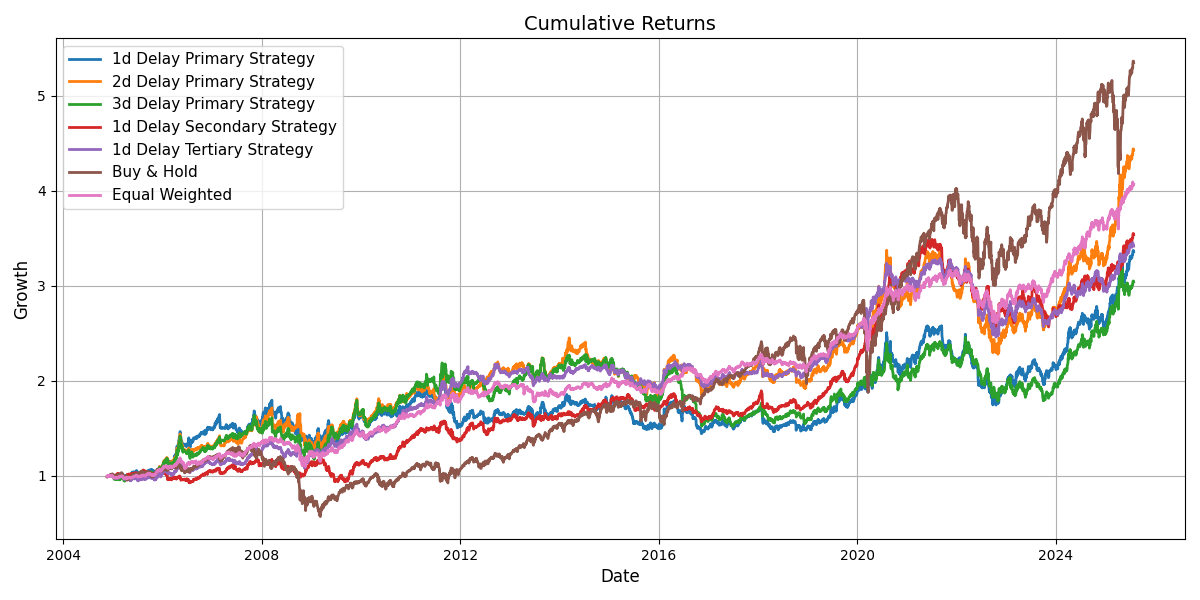
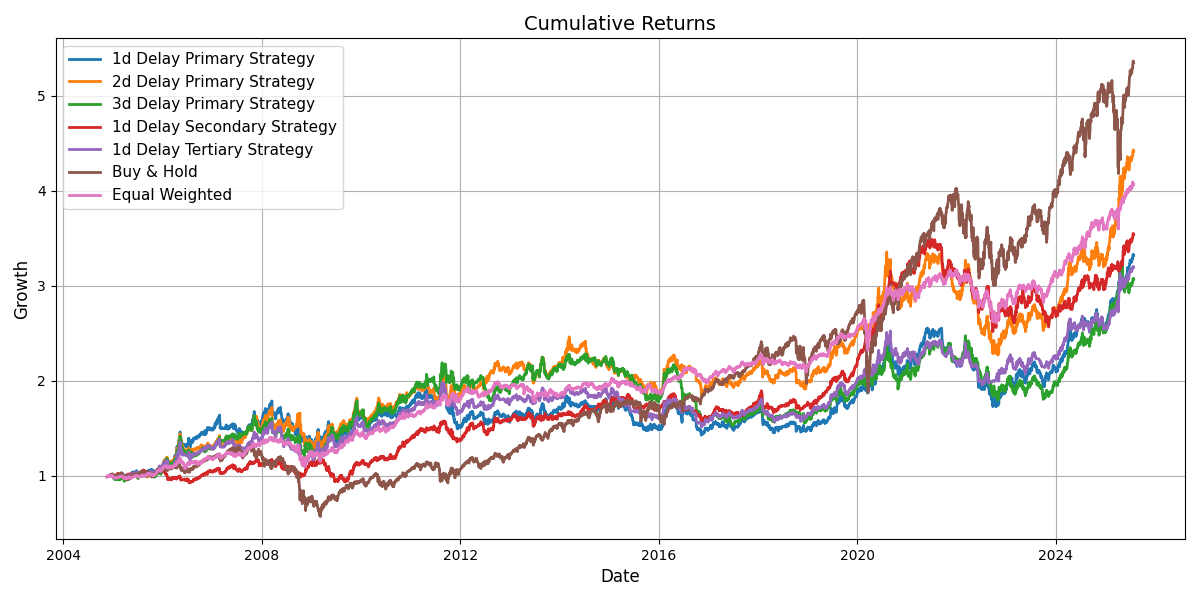
fix(top_perf.py): added print functions to help debugging and corrected momentum based weighting function

Changed region(s): [[0.0925, 0.39, 0.9558, 0.81]]

diff --git a/strategies/top_performers.py b/strategies/top_performers.py
@@ -2,7 +2,7 @@ import pandas as pd
 import numpy as np
 
 
-def genereate_top_performers_strategy(assets, window = 21, top_n = 2, max_delay = 1, weighting = "equal"):
+def genereate_top_performers_strategy(assets, window = 21, top_n = 2, max_delay = 1, weighting = "momentum"):
     
     # Calculates percentage change during window
     momentum = assets.pct_change(periods = window)
@@ -20,25 +20,42 @@ def genereate_top_performers_strategy(assets, window = 21, top_n = 2, max_delay 
     # Provides an optional momentum weighted portfolio
     elif weighting == "momentum":
         top_performers = (ranked <= top_n)
-        # Creates a data frame where assets ranked within our top_n are true and those not are given values of 0
-        top_n_momentum = momentum.where(top_performers, 0.0)
-        signal = top_n_momentum.div(top_n_momentum.sum(axis = 1), axis = 0)
+        # Keep only positive momentum values for weighting
+        top_n_momentum = momentum.where(top_performers & (momentum > 0), 0.0)
+        # Sum only positive momentum to normalize weights; ignore days with no positive momentum
+        row_sums = top_n_momentum.sum(axis=1).where(lambda x: x > 0, np.nan)
+        signal = top_n_momentum.div(row_sums, axis=0).fillna(0)
+        
+        # # Ensure no all mean sum is approx 1 with minimal std
+        # print("Signal row sum stats:")
+        # print(signal.sum(axis=1).describe())
+        # print(signal.loc[signal.index[-1]])
 
     # Reindexes daily returns as NaNs were dropped from signal
     daily_returns = assets.pct_change().dropna()
 
     results = {}
 
+    # # Prints No. of rows containing Nans
+    # print("Signal NaN rows:", signal.isna().any(axis=1).sum())
+
     # Appyling signal to each delay scenario in the range
     for delay in range (1, max_delay + 1):
         shifted_signal = signal.shift(delay).reindex(daily_returns.index).dropna()
         
         returns = []
-
+        valid_dates = []
+            
         for date, weight in shifted_signal.iterrows():
+            if weight.sum() == 0.0:
+                continue # Skips days with no signal
             returns.append((daily_returns.loc[date] * weight).sum())
+            valid_dates.append(date)
 
-        strategy_returns = pd.Series(returns, index = shifted_signal.index)
+        strategy_returns = pd.Series(returns, index = valid_dates)
         results[delay] = strategy_returns
 
+    # print("Max daily return:", strategy_returns.max())
+    # print("Min daily return:", strategy_returns.min())
+    # print("Top 5 spikes:\n", strategy_returns.sort_values(ascending=False).head())
     return results
